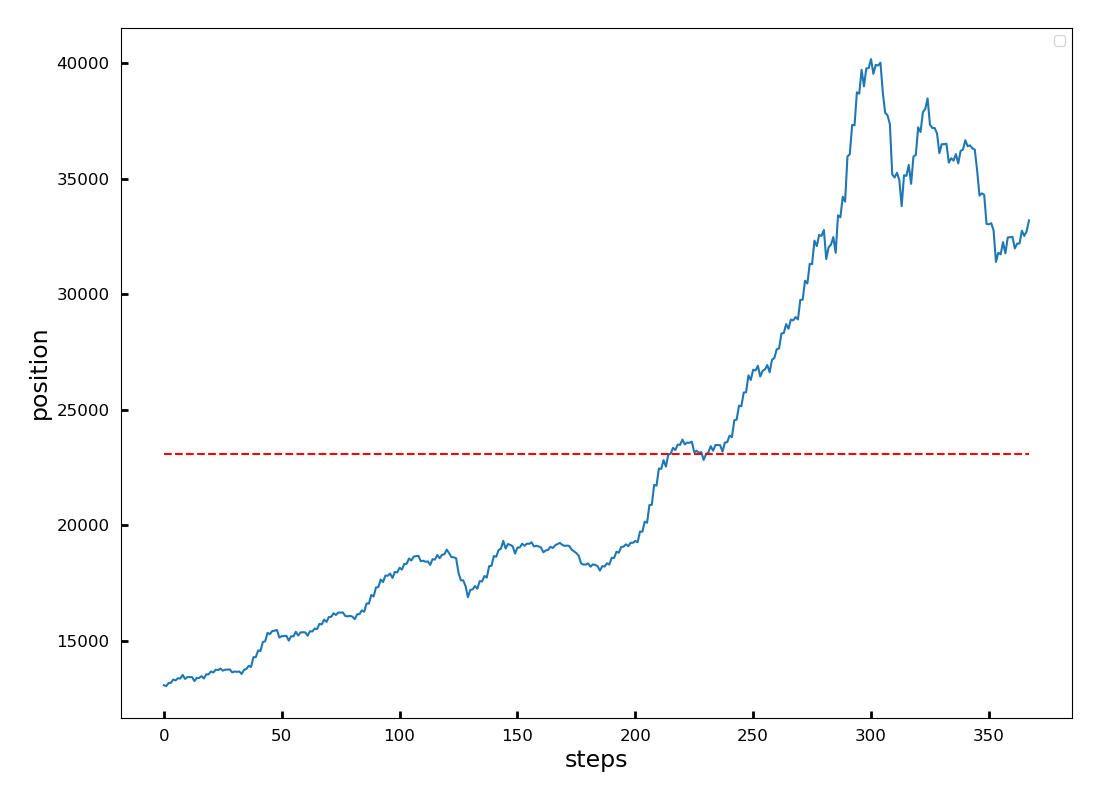
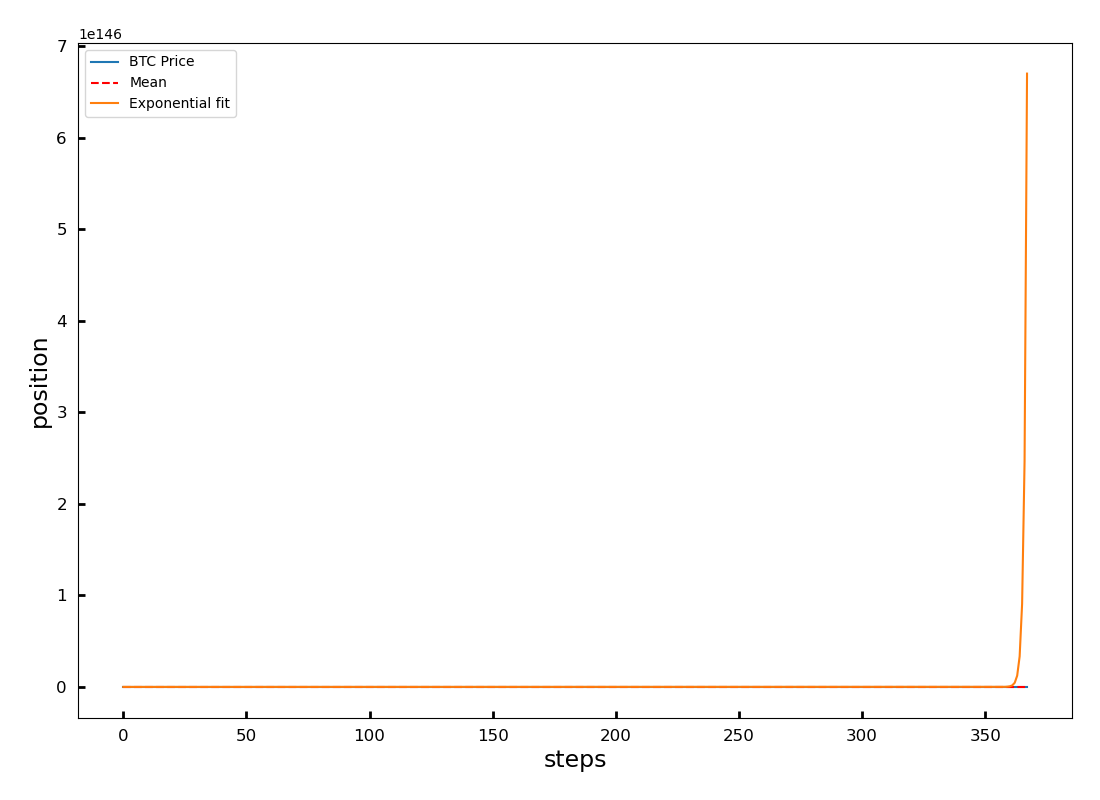
Exponential plots

diff --git a/examples/bitcoin_plots.py b/examples/bitcoin_plots.py
@@ -38,7 +38,7 @@ def BTC_plot(data,mean,fit,figname):
     ax1.plot(time, data)
     ax1.plot(time, np.ones(np.size(time))*mean, 'r--')
     ax1.plot(time, fit)
-    ax1.legend('BTC Price', 'Mean', 'Exponential fit')
+    ax1.legend(('BTC Price', 'Mean', 'Exponential fit'))
 
     #Customize all axes
 
